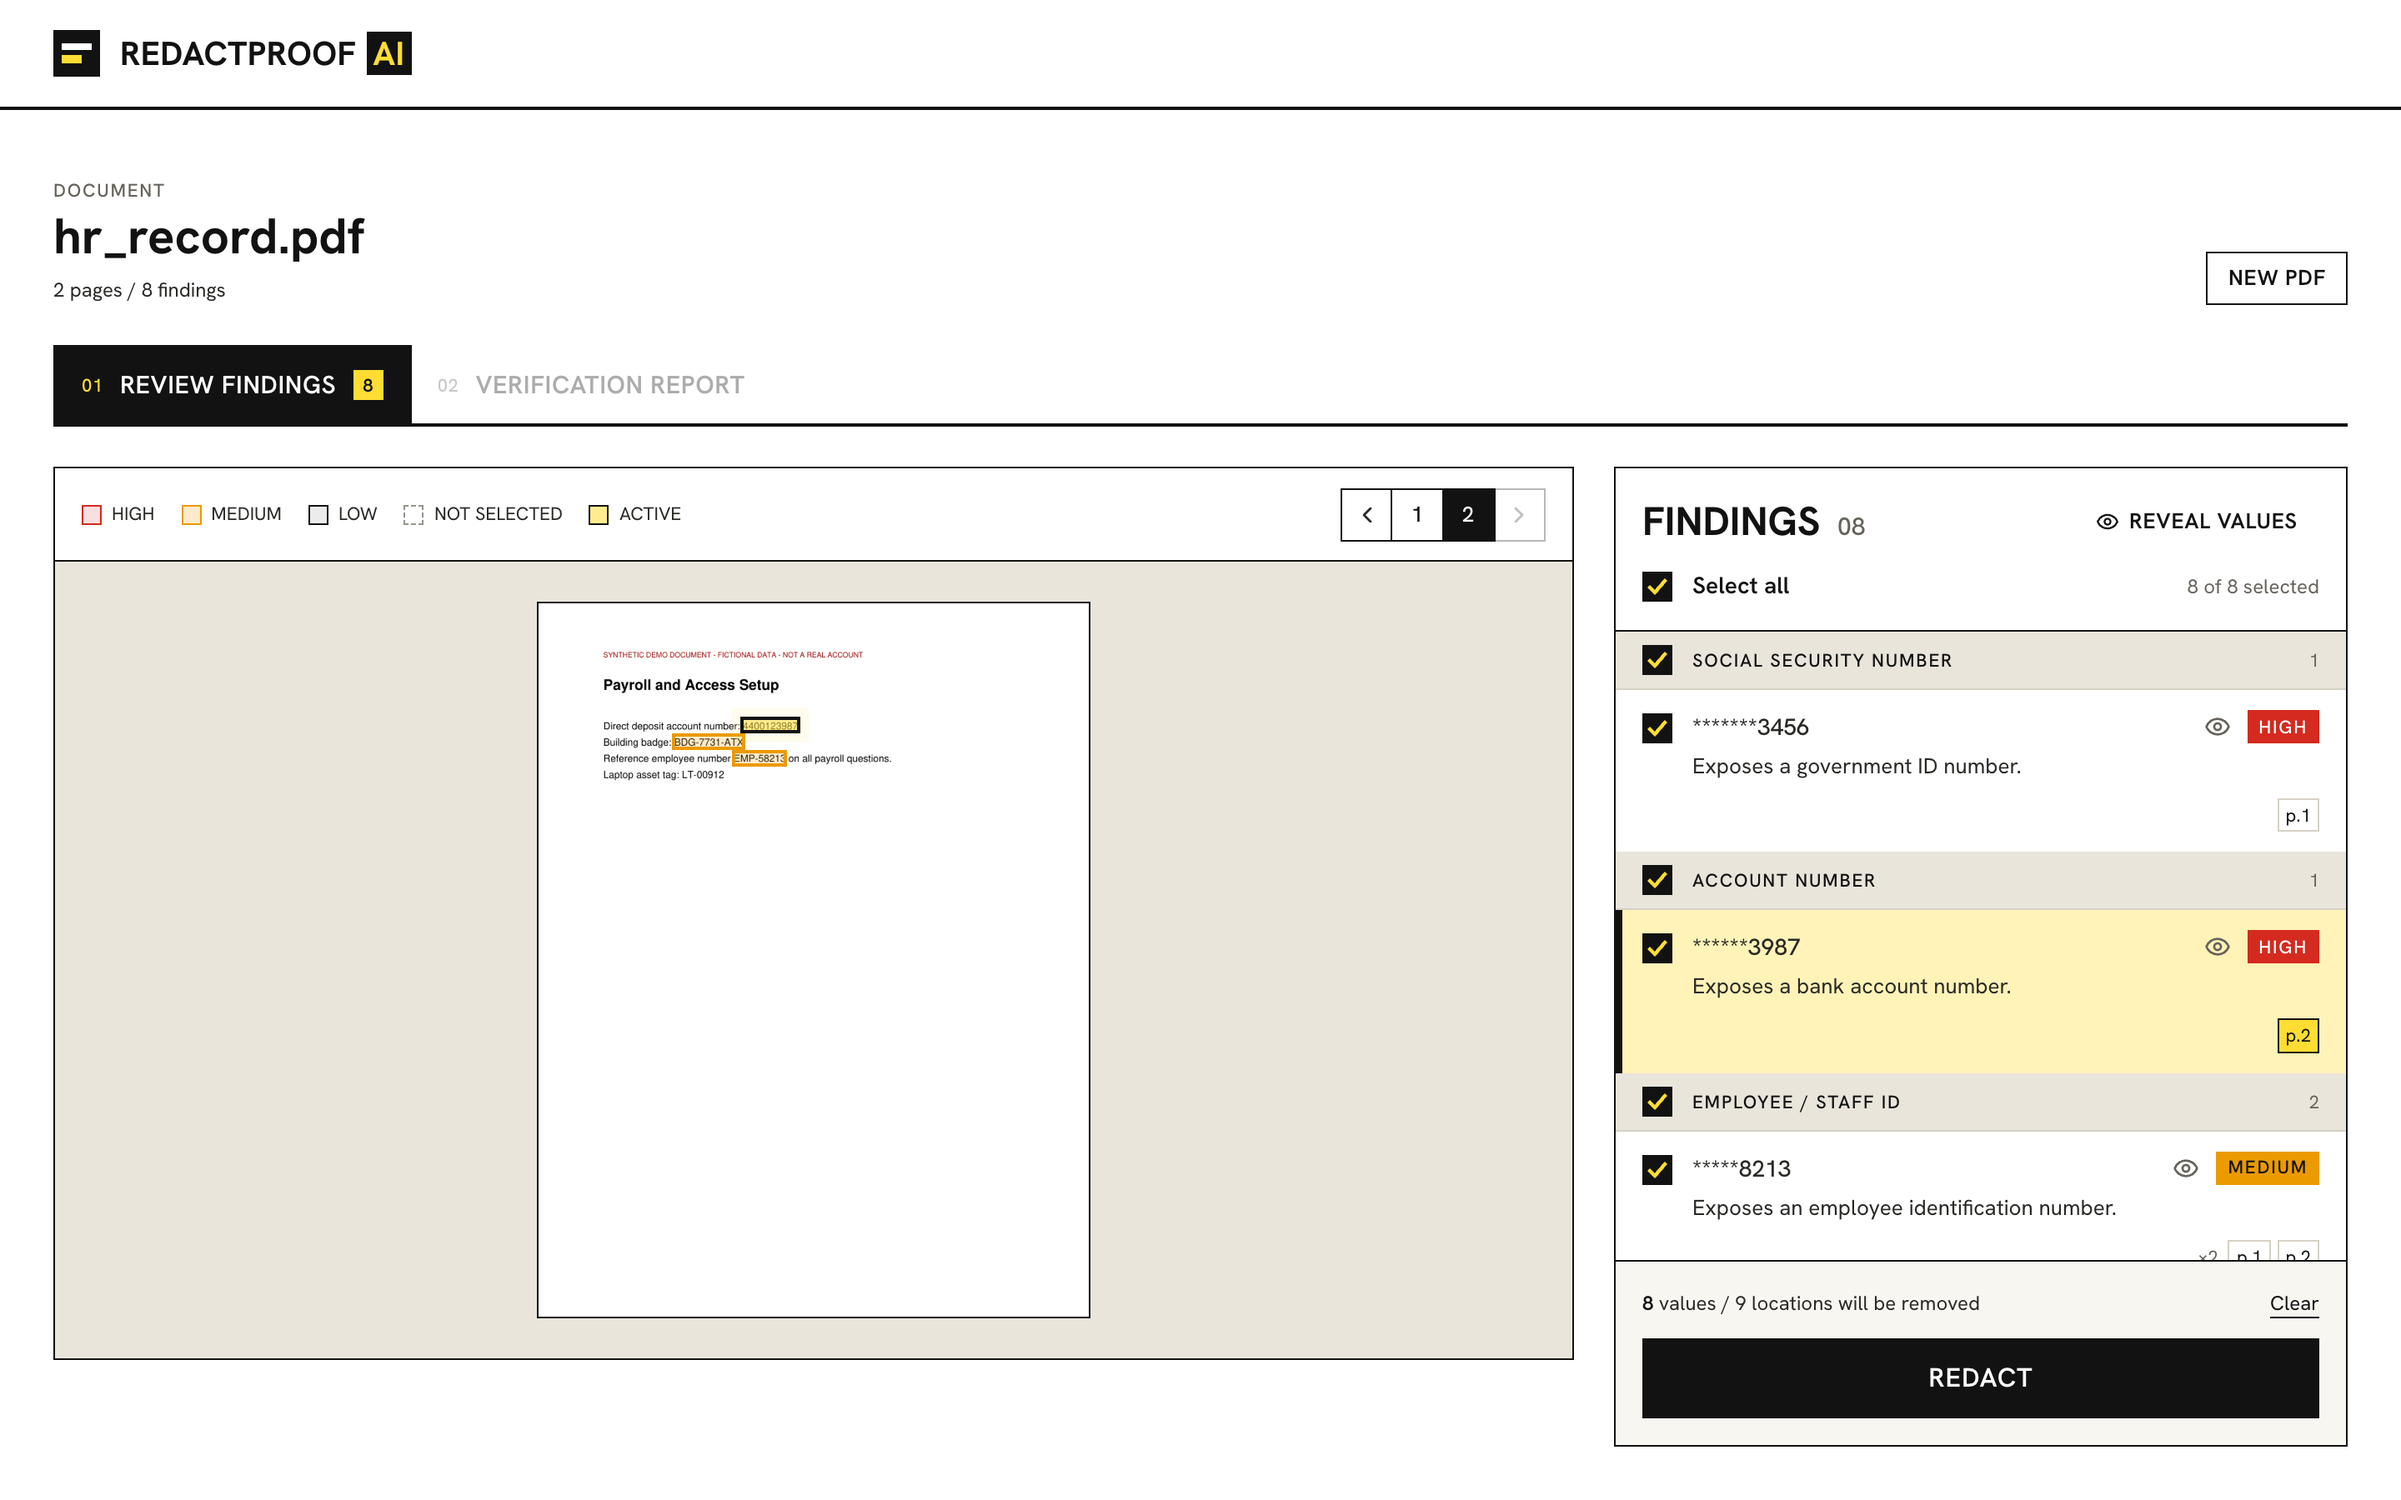
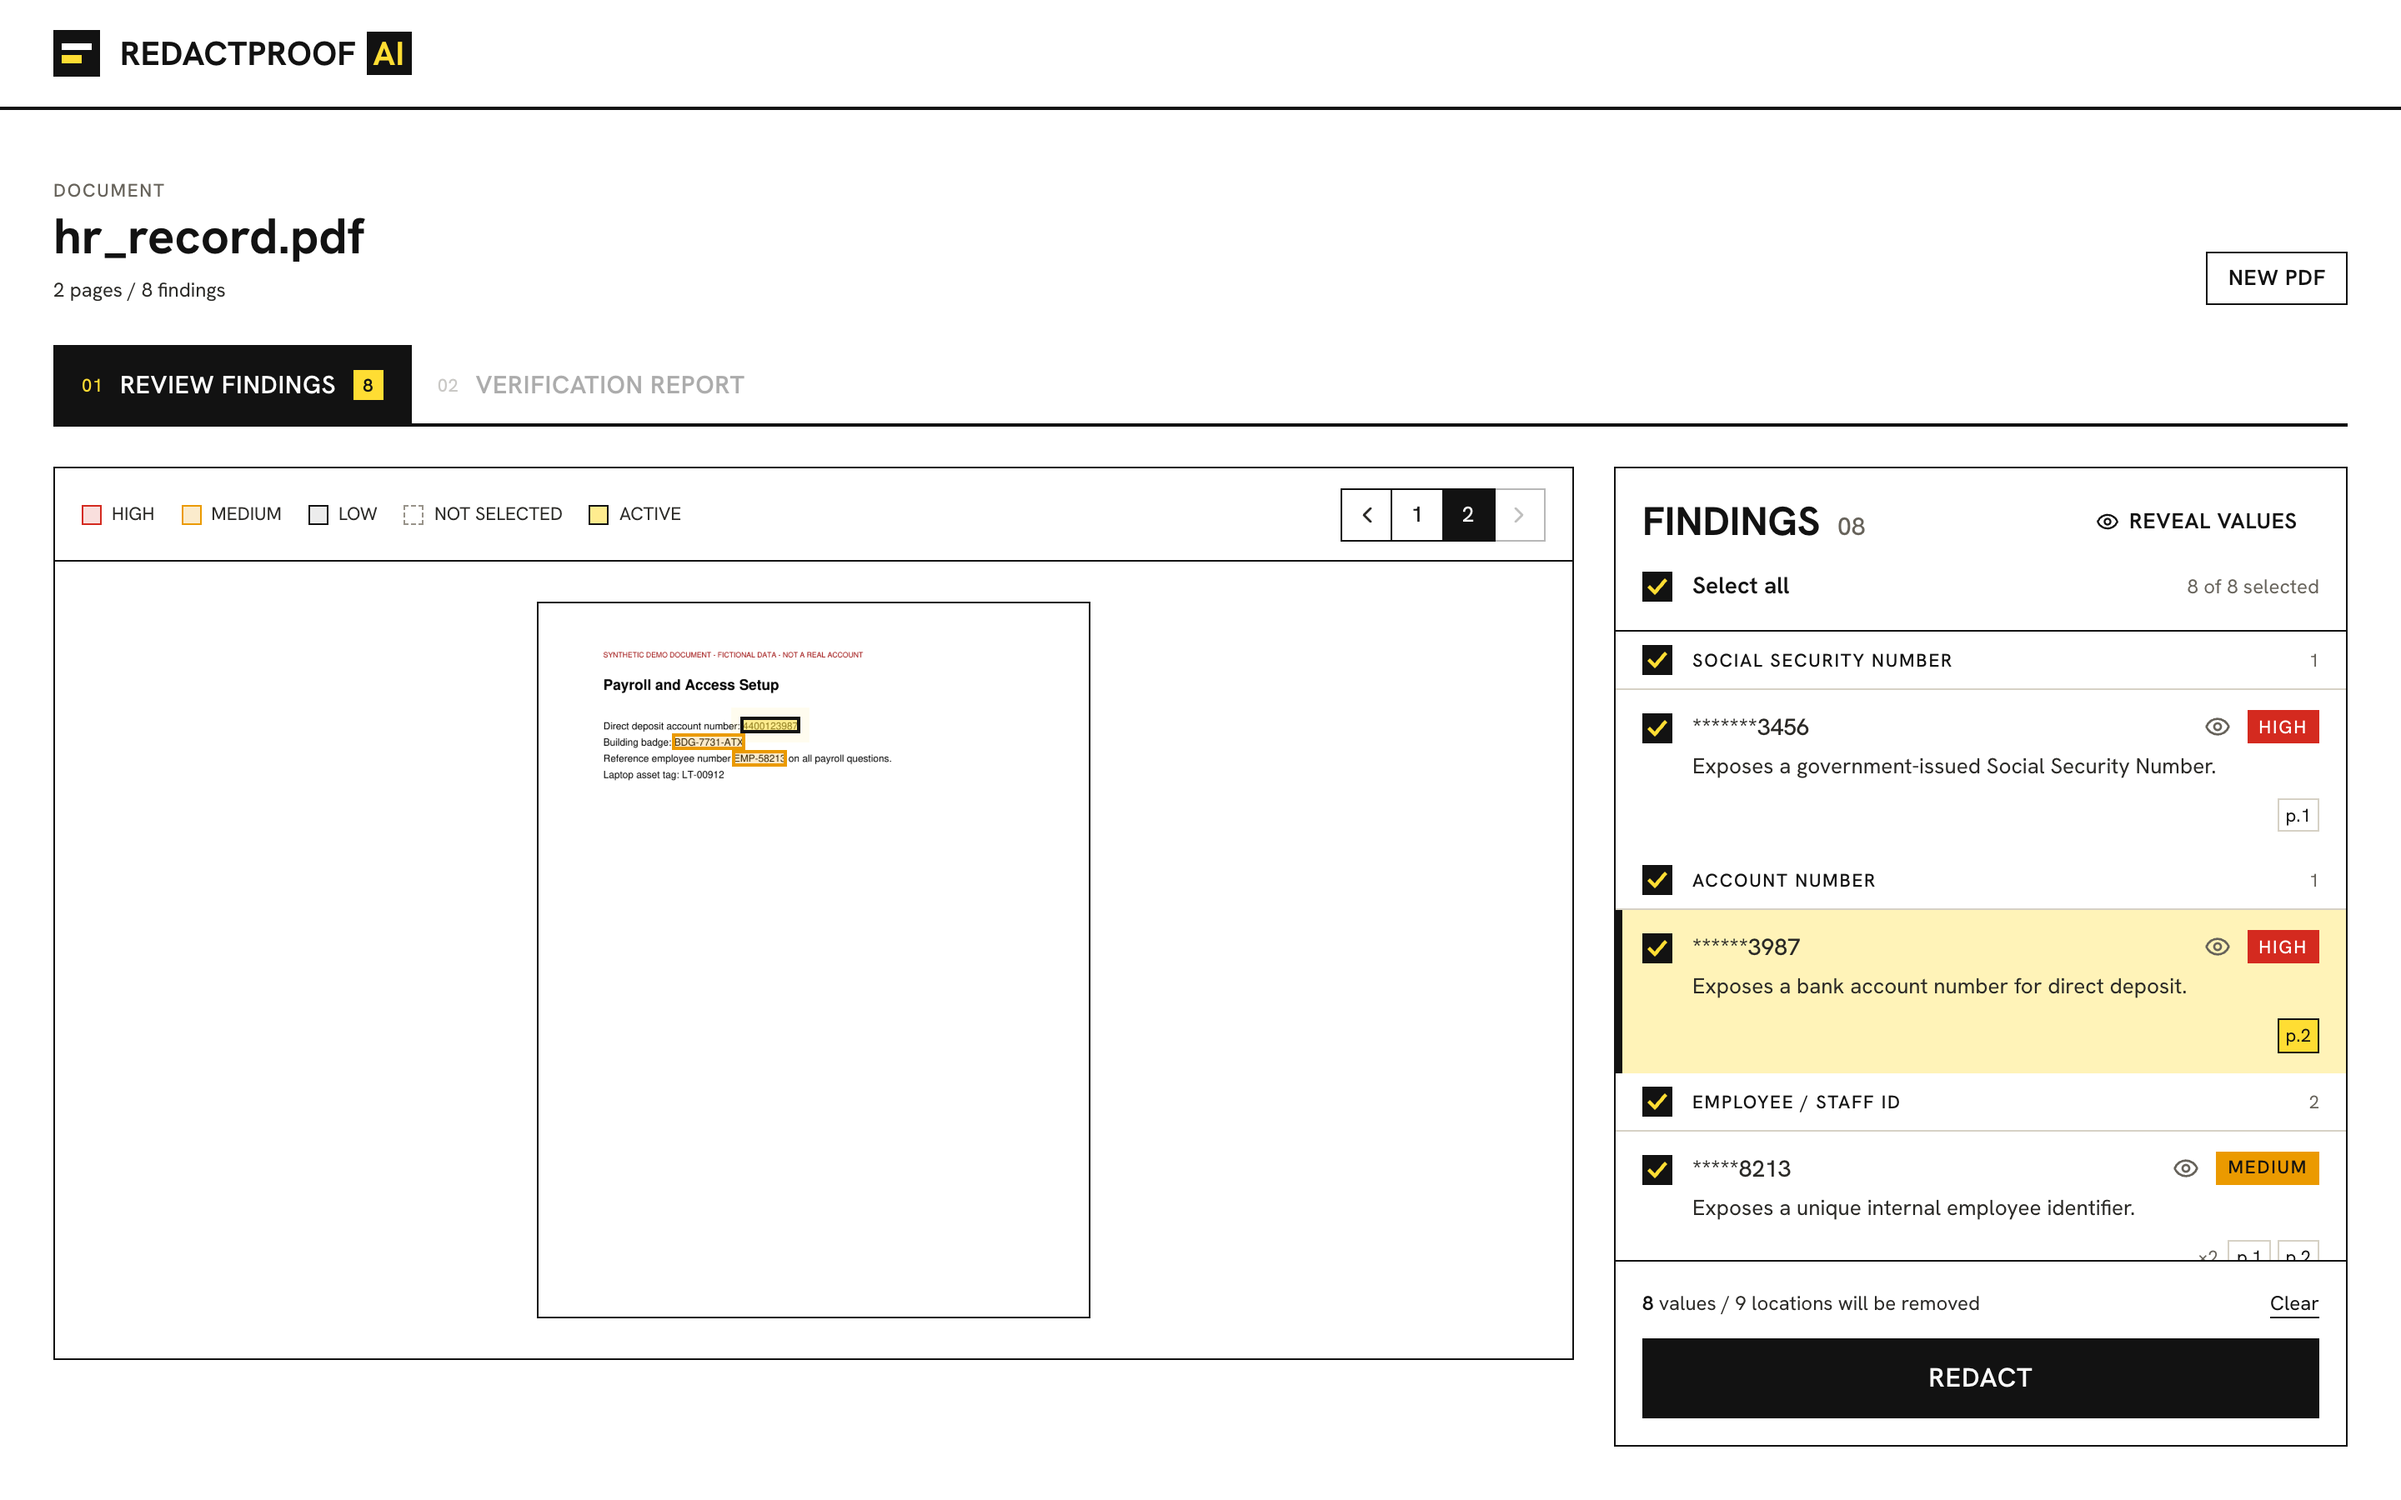
Make every surface white
Drop the tinted surface-2/surface-3 tokens and use white everywhere:
document backdrops, finding group headers, the redaction footer and the
before/after panel. The loading placeholder, row hover and unselected tab
badge get a light line color, highlighter tint and outline instead.

Changed region(s): [[0.0, 0.3733, 1.0, 0.9333], [0.8125, 0.4978, 0.9062, 0.5289], [0.8438, 0.6533, 0.9062, 0.6844]]

diff --git a/frontend/src/components/Workspace.tsx b/frontend/src/components/Workspace.tsx
@@ -93,7 +93,7 @@ export function Workspace(props: WorkspaceProps) {
                 </div>
                 <PageNav page={current.page} count={analysis.pages.length} onChange={setPage} />
               </div>
-              <div className="bg-surface-3 p-6">
+              <div className="bg-surface p-6">
                 <DocumentViewer
                   page={current}
                   imageUrl={api.url(current.preview_url)}
@@ -193,7 +193,7 @@ function TabBar({ tabs, value, onChange }: { tabs: TabDef[]; value: Tab; onChang
               <span
                 className={cx(
                   'px-1.5 py-px font-mono text-[11px] font-semibold tracking-normal normal-case',
-                  selected ? 'bg-marker text-ink' : 'bg-surface-3 text-ink',
+                  selected ? 'bg-marker text-ink' : 'border border-line text-ink',
                 )}
               >
                 {badge}

diff --git a/frontend/src/components/DocumentViewer.tsx b/frontend/src/components/DocumentViewer.tsx
@@ -58,9 +58,9 @@ export function DocumentViewer({
           className={cx('absolute inset-0 h-full w-full select-none transition-opacity duration-200', loaded ? 'opacity-100' : 'opacity-0')}
         />
       )}
-      {!loaded && !failed && <div className="absolute inset-0 animate-pulse bg-surface-3" aria-hidden />}
+      {!loaded && !failed && <div className="absolute inset-0 animate-pulse bg-line/50" aria-hidden />}
       {failed && (
-        <div role="alert" className="absolute inset-0 flex items-center justify-center bg-surface-2 p-8 text-center font-mono text-[12px] leading-relaxed text-body">
+        <div role="alert" className="absolute inset-0 flex items-center justify-center bg-surface p-8 text-center font-mono text-[12px] leading-relaxed text-body">
           Preview unavailable. The session may have expired — upload the PDF again.
         </div>
       )}

diff --git a/frontend/src/components/FindingsSidebar.tsx b/frontend/src/components/FindingsSidebar.tsx
@@ -85,7 +85,7 @@ export function FindingsSidebar({ findings, selectedIds, activeId, disabled, onS
             const n = ids.filter((id) => selectedIds.has(id)).length
             return (
               <div key={group.type}>
-                <div className="sticky top-0 z-10 flex items-center gap-3 border-b border-line bg-surface-3 px-4 py-2">
+                <div className="sticky top-0 z-10 flex items-center gap-3 border-b border-line bg-surface px-4 py-2">
                   <Checkbox
                     checked={n === ids.length}
                     indeterminate={n > 0 && n < ids.length}

diff --git a/frontend/src/components/BeforeAfterViewer.tsx b/frontend/src/components/BeforeAfterViewer.tsx
@@ -22,7 +22,7 @@ export function BeforeAfterViewer({ analysis, result, page, onPageChange }: Befo
         <h3 className="font-display text-[20px] font-bold text-ink uppercase">Before / after</h3>
         <PageNav page={page} count={Math.min(analysis.pages.length, result.pages.length)} onChange={onPageChange} />
       </div>
-      <div className="grid bg-surface-3 md:grid-cols-2">
+      <div className="grid bg-surface md:grid-cols-2">
         <figure className="p-6">
           <figcaption className="mb-4 flex items-center gap-4">
             <span className="tag text-ink">Original</span>

diff --git a/frontend/src/components/FindingCard.tsx b/frontend/src/components/FindingCard.tsx
@@ -30,7 +30,7 @@ export function FindingCard({ finding, selected, active, revealed, disabled, onS
       ref={ref}
       className={cx(
         'flex gap-3 border-b border-line py-3 pr-4 pl-3 transition-colors last:border-b-0',
-        active ? 'border-l-4 border-l-ink bg-marker/35 pl-2' : 'border-l-4 border-l-transparent hover:bg-surface-2',
+        active ? 'border-l-4 border-l-ink bg-marker/35 pl-2' : 'border-l-4 border-l-transparent hover:bg-marker/15',
       )}
     >
       <Checkbox

diff --git a/frontend/src/components/RedactionControls.tsx b/frontend/src/components/RedactionControls.tsx
@@ -16,7 +16,7 @@ export function RedactionControls({ findings, selectedIds, redacting, disabled, 
   const locations = selected.reduce((n, f) => n + f.locations.length, 0)
 
   return (
-    <div className="border-t-[1.5px] border-ink bg-surface-2 p-4">
+    <div className="border-t-[1.5px] border-ink bg-surface p-4">
       {error && (
         <div role="alert" className="mb-3 border-[1.5px] border-danger bg-danger px-3 py-2 text-[13px] font-medium text-white">
           {error}

diff --git a/frontend/src/index.css b/frontend/src/index.css
@@ -19,8 +19,6 @@
   /* Paper and ink */
   --color-paper: #ffffff;
   --color-surface: #ffffff;
-  --color-surface-2: #f8f6f1;
-  --color-surface-3: #e9e5db;
   --color-line: #d6d1c5;
   --color-ink: #121212;
   --color-body: #2a2926;
